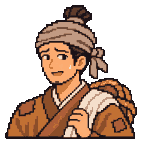
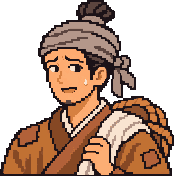
portraits at their own pixel grid: the generated pictures are coarse pixel art (an art pixel ≈ 7–8 px of the raw), and resizing them to 144 rows split and blended every art pixel (the user: 「怎么立绘还是糊的」); now the grid is measured (period and phase by reconstruction error), one colour per cell, 150–180

diff --git a/src/present/act/dialogue.ts b/src/present/act/dialogue.ts
@@ -37,13 +37,13 @@ function portraitTex(id: string, ready: (t: THREE.Texture) => void) {
 
 const BG = '#14121c', EDGE_G = '#c8963a', EDGE_R = '#a8302a', NAME = '#ffd27a', BODY = '#f2e8d6', MUTE = '#a8a2a8';
 const CPS = 36;   // characters per second
-interface Side { mesh: THREE.Mesh | null; id: string; k: number; on: number; aspect: number; pop: number; was: boolean }
+interface Side { mesh: THREE.Mesh | null; id: string; k: number; on: number; aspect: number; ih: number; pop: number; was: boolean }
 
 /** the line's HD body font size (CSS px): 20 on tall screens, 15 on a phone held sideways */
 const fontPx = (scale: number) => (scale >= 2 ? 20 : 15);
 export class Dialogue {
   on = false; private box: THREE.Mesh; private boxTex: THREE.CanvasTexture | null = null; private canvas = document.createElement('canvas');
-  private sides: Record<'L' | 'R', Side> = { L: { mesh: null, id: '', k: 0, on: 0, aspect: 0.8, pop: 0, was: false }, R: { mesh: null, id: '', k: 0, on: 0, aspect: 0.8, pop: 0, was: false } };
+  private sides: Record<'L' | 'R', Side> = { L: { mesh: null, id: '', k: 0, on: 0, aspect: 0.8, ih: 144, pop: 0, was: false }, R: { mesh: null, id: '', k: 0, on: 0, aspect: 0.8, ih: 144, pop: 0, was: false } };
   /** the portraits sliding out after the last line (1 → 0) */
   private outK = 0; private lastSpeaker: 'L' | 'R' | null = null;
   private lines: Line[] = []; private i = 0; private shown = 0; private t = 0; private done: (() => void) | null = null; private drawn = -1; private openT = 0;
@@ -66,9 +66,9 @@ export class Dialogue {
     if (S.mesh) { this.L.scene.remove(S.mesh); (S.mesh.material as THREE.Material).dispose(); S.mesh.geometry.dispose(); S.mesh = null; }
     const mat = new THREE.MeshBasicMaterial({ transparent: true, depthTest: false, depthWrite: false, alphaTest: 0.5, color: 0xffffff });
     const m = new THREE.Mesh(new THREE.PlaneGeometry(1, 1), mat); m.renderOrder = 59; m.visible = false; this.L.scene.add(m); S.mesh = m;
-    const t = portraitTex(id, tt => { mat.map = tt; mat.needsUpdate = true; const img = tt.image as { width: number; height: number }; S.aspect = img.width / img.height; m.visible = this.on; });
+    const t = portraitTex(id, tt => { mat.map = tt; mat.needsUpdate = true; const img = tt.image as { width: number; height: number }; S.aspect = img.width / img.height; S.ih = img.height; m.visible = this.on; });
     if (!t) { m.visible = false; return; }
-    mat.map = t; if (t.image) { const img = t.image as { width: number; height: number }; S.aspect = img.width / img.height; m.visible = true; }
+    mat.map = t; if (t.image) { const img = t.image as { width: number; height: number }; S.aspect = img.width / img.height; S.ih = img.height; m.visible = true; }
   }
   /** a tap / Enter / the cut button */
   advance() {
@@ -136,7 +136,7 @@ export class Dialogue {
    *  the listener down to about a third, a cold cast, a step back out and down; a new face slides in from its edge, and at the end
    *  both slide out. Final positions snap to device pixels so the pixel art stays crisp (only the moves themselves land between). */
   private portraits(dt: number, speaker: 'L' | 'R' | null) {
-    const L = this.L, dpr = Math.max(1, Math.round(L.dpr || 1)), pk = Math.max(1, Math.round((L.h * 1.0 * dpr) / 144)) / dpr;
+    const L = this.L, dpr = Math.max(1, Math.round(L.dpr || 1));
     const snap = (v: number) => Math.round(v * dpr) / dpr;
     for (const s of ['L', 'R'] as const) {
       const S = this.sides[s]; if (!S.mesh) continue;
@@ -145,7 +145,9 @@ export class Dialogue {
       S.on += ((speaking ? 1 : 0) - S.on) * Math.min(1, dt * (speaking ? 14 : 7));
       S.k = Math.min(1, S.k + dt * 3.2); S.pop = Math.max(0, S.pop - dt / 0.22);
       const inK = 1 - Math.pow(1 - S.k, 3), outK = this.on ? 0 : 1 - this.outK * this.outK, dir = s === 'L' ? 1 : -1;
-      const hP = 144 * pk, wP = hP * S.aspect;
+      // (act-37 用户：「怎么立绘还是糊的」: each picture is kept at its own pixel grid (150–180 rows), so the scale is a whole number of
+      //  device pixels per art pixel from its own height)
+      const pk = Math.max(1, Math.round((L.h * dpr) / S.ih)) / dpr, hP = S.ih * pk, wP = hP * S.aspect;
       const home = s === 'L' ? wP * 0.4 : L.w - wP * 0.4;
       const step = L.w * 0.018 * S.on - L.w * 0.035 * (1 - S.on);
       const cx = home + dir * step - dir * ((1 - inK) + outK) * wP * 0.95;

diff --git a/tools/portraits.py b/tools/portraits.py
@@ -131,3 +131,58 @@ def main() -> None:
 
 if __name__ == "__main__":
     main()
+
+
+# ---------------------------------------------------------------- act-37: back to the picture's own pixel grid
+# 用户：「怎么立绘还是糊的」— the generated pictures are pixel art on a coarse grid (one art pixel ≈ 8–12 px of the 1254 px raw), so
+# their own art is only ~100–150 rows tall; resizing that to 144 rows split each art pixel into ~1.4 and blended the edges. Instead:
+# find the grid (period and phase, from where the colour edges fall), take one colour per cell (the median of its middle), and keep
+# that native size; the game scales it by a whole number.
+import numpy as np
+
+
+def _period(profile: np.ndarray, lo: int = 5, hi: int = 18) -> tuple[int, int]:
+    """the grid period and phase that put the most edge energy on the grid lines"""
+    best = (0.0, lo, 0)
+    for s in range(lo, hi + 1):
+        for o in range(s):
+            e = profile[o::s].sum() / max(1, len(profile[o::s]))
+            if e > best[0] * 1.0001: best = (e, s, o)
+    return best[1], best[2]
+
+
+def process_native(path: Path, colours: int = 20) -> Image.Image:
+    image = remove_background(Image.open(path))
+    alpha = image.getchannel("A").point(lambda a: 255 if a >= 128 else 0)
+    rgb = np.asarray(image.convert("RGB")).astype(np.int32); a = np.asarray(alpha) > 0
+    gx = (np.abs(np.diff(rgb, axis=1)).sum(2) * (a[:, 1:] & a[:, :-1])).sum(0).astype(np.float64)
+    gy = (np.abs(np.diff(rgb, axis=0)).sum(2) * (a[1:] & a[:-1])).sum(1).astype(np.float64)
+    # the grid: for each period, the phase that puts most edge energy on its lines; then the coarsest period whose cells, filled with
+    # one colour each and blown back up, still match the picture (a period too coarse smears; a half period also matches, so take
+    # the largest that is nearly as good as the best)
+    H0, W0 = rgb.shape[:2]; tries = []
+    for s_ in range(6, 19):
+        o_x = (max(range(s_), key=lambda o: gx[o::s_].mean()) + 1) % s_; o_y = (max(range(s_), key=lambda o: gy[o::s_].mean()) + 1) % s_
+        ny_, nx_ = (H0 - o_y) // s_, (W0 - o_x) // s_
+        blk = rgb[o_y:o_y + ny_ * s_, o_x:o_x + nx_ * s_].reshape(ny_, s_, nx_, s_, 3).astype(np.float32)
+        am = a[o_y:o_y + ny_ * s_, o_x:o_x + nx_ * s_].reshape(ny_, s_, nx_, s_)
+        mean = blk.mean(axis=(1, 3), keepdims=True)
+        err = float((((blk - mean) ** 2).sum(-1) * am).sum() / max(1, am.sum()))
+        tries.append((err, s_, o_x, o_y))
+    best = min(t[0] for t in tries)
+    err, s, ox, oy = max((t for t in tries if t[0] <= best * 1.35 + 20), key=lambda t: t[1])
+    sx = sy = s
+    H, W = rgb.shape[:2]; ny, nx = (H - oy) // s, (W - ox) // s
+    out = np.zeros((ny, nx, 4), np.uint8); m = max(1, s // 4)
+    for j in range(ny):
+        for i in range(nx):
+            y0, x0 = oy + j * s, ox + i * s
+            blk = rgb[y0 + m:y0 + s - m, x0 + m:x0 + s - m].reshape(-1, 3); al = a[y0 + m:y0 + s - m, x0 + m:x0 + s - m].reshape(-1)
+            if al.mean() < 0.5: continue
+            out[j, i, :3] = np.median(blk[al], axis=0); out[j, i, 3] = 255
+    img = Image.fromarray(out, "RGBA"); bbox = img.getchannel("A").getbbox(); img = img.crop(bbox)
+    hard = img.getchannel("A")
+    q = Image.new("RGB", img.size, (0, 0, 0)); q.paste(img.convert("RGB"), mask=hard)
+    q = q.quantize(colors=colours, method=Image.Quantize.MEDIANCUT, dither=Image.Dither.NONE).convert("RGB"); q.putalpha(hard)
+    print(f"{path.stem}: grid {s} px (x {sx}/{ox}, y {sy}/{oy}) → {q.width}×{q.height}")
+    return q

diff --git a/CLAUDE.md b/CLAUDE.md
@@ -135,6 +135,7 @@
 - **act-37 反馈（11-17，七续）**：「我觉得音乐够了，很多其实听起来差不多。」→ **不再加新曲子**（雪夜独行不做了，沿用战斗曲；以后章节的曲子也先不提），用现有的。接法：冷开场从第 18 秒起放（响的那段落在闪回上）；序章破庙初战 = 打不赢那首；被砸倒 → 天亮 = 倒地那首（放到醒来为止）；据点 / 破窑 = 破窑那首（换掉原来练武场那首）；杀褚雷后的对话 = 杀褚雷后那首；断碑划名 = 断碑短乐；战死被拖回来 = 醒来短乐。
 - **act-37 之后（11-17）**：「胜利和失败的音乐都放在桌面了，你可能要处理一下。」→ 用户按音效提示词生成的两条各约 13 秒，剪成游戏用的：胜利取结尾 3.8 秒（最后一串击打 + 自然余音，收在落点上），失败 7 秒（渐起 → 一记重闷响 → 余音 → 第二下轻的 → 淡出）；响度对齐原来的胜负短乐，替换 act-35 的鼓声版（处理记在 `GameProtos/music/make_unseen_v2.py` 同目录）。
 - **act-38 之后（11-17）**：选音色「刘白用候选3，褚雷用候选4，杜五候选4，孙媪候选 3」（`out_unseen_v2` 的 c3 / c4 / c4 / c3，逐句导演指示写在 `GameProtos/voice/directions_unseen.py`）。紧接着：「现在的台词我还是觉得有点问题，缺乏情绪，大多数都太啰嗦了，而且像说明书。」→ **全量配音先停**（台词要重写，配了也白配）；台词重写交给 agy（gemini-3.8-flash-high），这次规矩更狠：**大多数一句 10 字以内、最长 16 字**，场景句数砍掉三分之一以上；**不交代**（地名、史实、谁投了谁、来龙去脉一概不在嘴上说清楚），情绪靠动作行、停顿、没说完的话、答非所问；每段先想「这个人此刻最想要什么、最怕什么」再写一句他会脱口而出的话；事实更新（眼睛是踹翻锻炉的红炭和热灰烫瞎的，不是石灰；开门引贼的洛阳名士就是周黯）。我核对后出新旧对照给用户，用户认可再配音。
+- **act-38 之后（11-17，续）**：「怎么立绘还是糊的」→ 原因：Codex 画的是粗格像素画（原图一个像素格约 7～8 像素，整张只有一百五六十行），我把它重采样成 144 行，一格拆成零点几格、边缘混色，所以糊。改成**按原图自己的像素格还原**（测出格子大小和起点，一格取一个颜色，150～180 行，20 色），游戏里按每张图自己的高度整数倍放大（`tools/portraits.py` 的 `process_native`）。
 - **act-37 反馈（11-17，续）**：我问的三件事——「你说的三个问题除了刀的颜色之外，别的都可以接受。刀担心看不清。」→ ① **开门引贼的洛阳名士就是周黯**（她亲手救活的人是主谋；官名用汉代的「尚方丞」）；② **刀不改黑**：游戏里的刀保持用户改过的亮钢色（黑刀身在俯视镜头下看不清），小说 / 台词里「乌沉刀」「黑刀」的说法暂不动；③ **据点墙上做刀架**：三十个刀位，文家那三十柄百辟刀每拿回一柄就挂上一柄（杀褚雷拿回第一柄），空位看得出还差多少。
 - **act-37 反馈（11-17，再续）**：「商店里的选项都是codex做的模型吗？好丑，还过曝了。然后这版立绘对比之前糊了好多，画风也不如之前的。」→ ① 摊位是我做的（act-17 的摊子、act-36 的浮空图标），不是 Codex：大红布桌面 + 桌上几件很小的白东西，上面再浮一个发光的薄卡牌图标（转着多半是侧面），白天亮场景里糊成白块。**重做摊位**：去掉发光的浮空卡牌图标；货物本身做大、做成好看的体素小件（竹简秘卷、药葫芦、青砥石带刀），摆在深色木货架 / 席子上，走近时货物抬起慢慢转（不发光，照常受光）；桌布不用大红。② 立绘糊：新的一套是半身构图，脸只占约三分之一高，144 像素里五官没几个像素；处理时用了平滑缩放、留 40 色，边缘发虚。旧的一套是头肩特写、16 色平涂、粗黑描边。**画风回到旧的那套**：以旧立绘（act-36 及以前）为画风和构图的样板——头肩特写、头约占一半高、粗描边、2～3 层平涂、16 色——只换成汉末的发型衣服（新画的那套当内容参考），11 张一起重画（Codex），处理改成「紧裁头肩 + 像素格对齐缩小 + 16 色无抖动」。
 - **act-38 之后（11-17，战斗手感专门窗口）**：「现在的战斗，派生技能设计了不少，但是连招的窗口很多都太短了，很难放的出来，更很难被玩家感知到，然后基本上可以无脑蓄力打见切，我感觉缺少了一个限制放强力技能的战斗资源，比如能量」→ 量过窗口：冲刺类只有冲刺那 0.2 秒；砍中类 0.27～0.4 秒，连按斩时只剩 0.15～0.2 秒（按钮翻面就要 0.2 秒，人反应约 0.25 秒）；破势没有代价、能一直按着等、没接住也是一记无敌箭步斩。问后定：① **派生窗口每个至少 0.5 秒、可提前 0.2 秒按**——冲刺类（穿风斩 / 回身镖 / 穿心腿）= 冲刺中 + 冲刺后 0.3 秒；砍中类（挑云 / 迎面镖）= 砍中后 0.5 秒内（下一刀已经开始也算）；游身斩 0.6 秒、寻声 2 秒；调参面板加「派生窗口」。② **新资源「气」三格**（玩家看到的叫法 agy 起）：连环刀砍中攒（一整套约一格），刀谱派生砍中攒两倍，完美闪避半格、砍飞箭四分之一格，每间屋开场至少一格；**只有藏锋拔刀花气**（箭步斩、破势一次一格，**破势成功不返还**）；不够一格时长按斩进不了藏锋，按钮摇头闪暗红；**屏息**：藏锋最多按住约 2 秒，到头吐一口白气收势，这格气白花。穿风斩、派生招、镖不花气。③ 藏锋时「现在松手」的白光**保留**。④ 气显示成**斩钮上方三颗灯**（同镖钮的铜灯，攒到一半的那颗半亮）。⑤ **新学的刀谱派生前三次能接时慢放**（时间放慢一半），试剑坪里不慢放。
